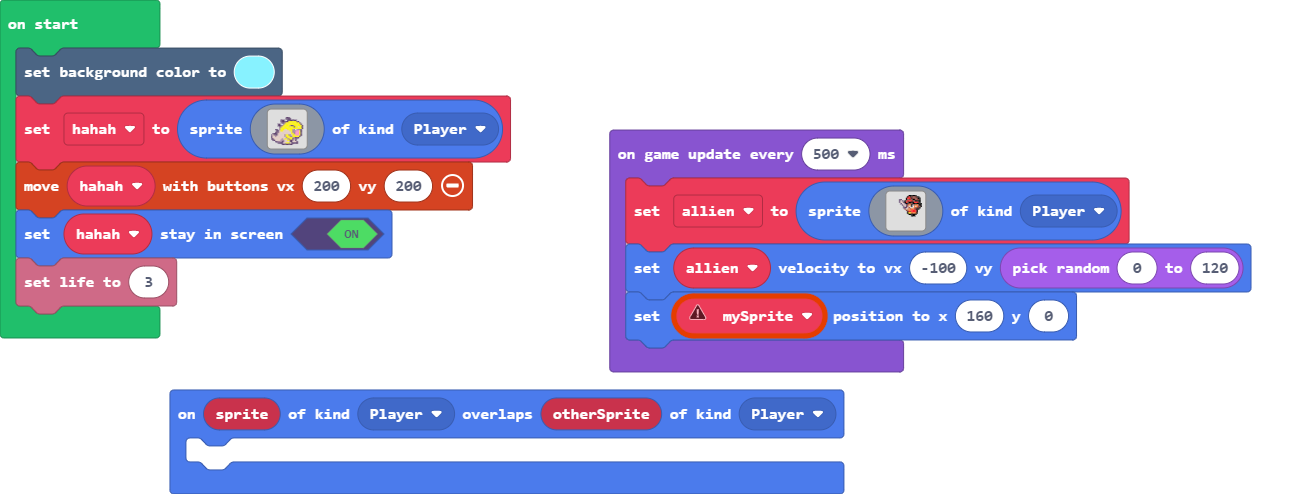
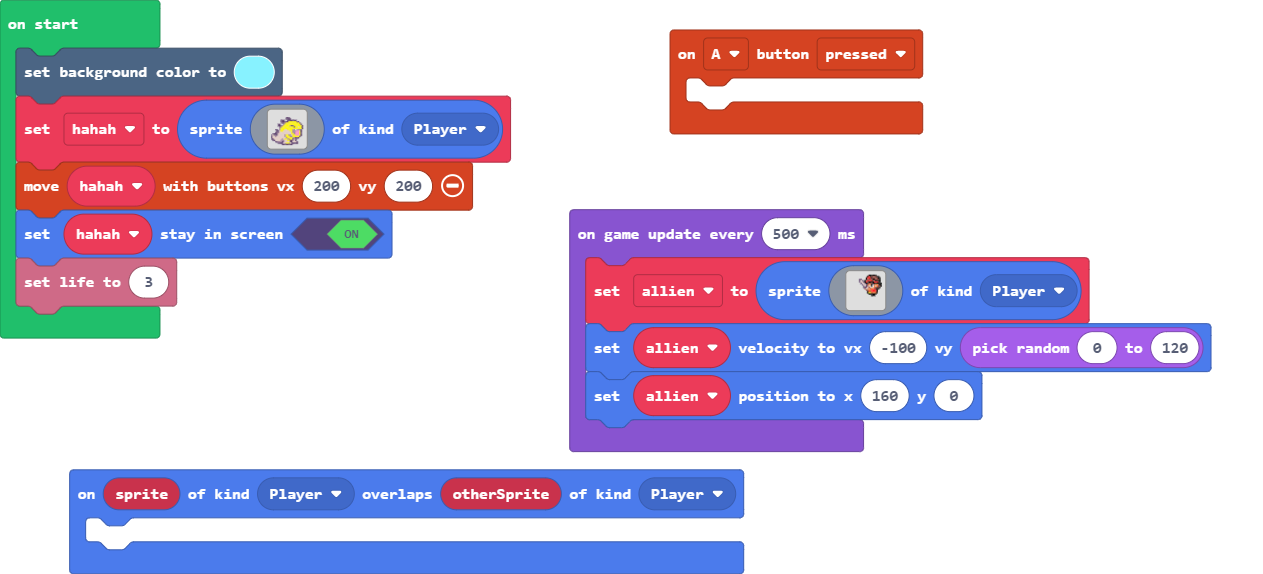
Update main.blocks, main.ts

diff --git a/main.ts b/main.ts
@@ -1,3 +1,6 @@
+controller.A.onEvent(ControllerButtonEvent.Pressed, function () {
+	
+})
 sprites.onOverlap(SpriteKind.Player, SpriteKind.Player, function (sprite, otherSprite) {
 	
 })
@@ -33,7 +36,6 @@ controller.moveSprite(hahah, 200, 200)
 hahah.setStayInScreen(true)
 info.setLife(3)
 game.onUpdateInterval(500, function () {
-    let mySprite: Sprite = null
     allien = sprites.create(img`
         ..............ffffff....
         .............f2feeeeff..
@@ -61,5 +63,5 @@ game.onUpdateInterval(500, function () {
         ........................
         `, SpriteKind.Player)
     allien.setVelocity(-100, randint(0, 120))
-    mySprite.setPosition(160, 0)
+    allien.setPosition(160, 0)
 })
